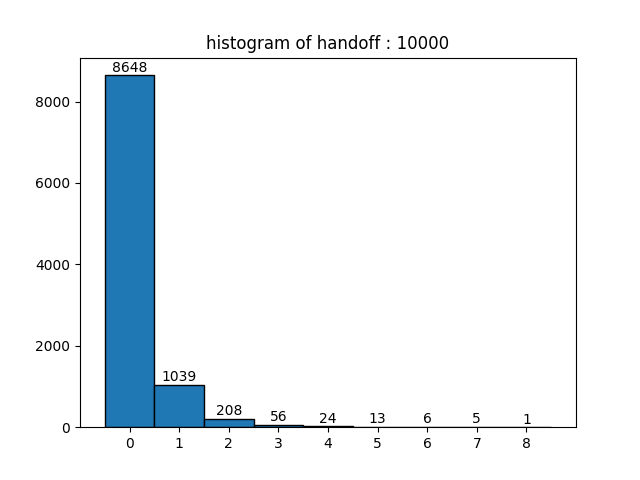
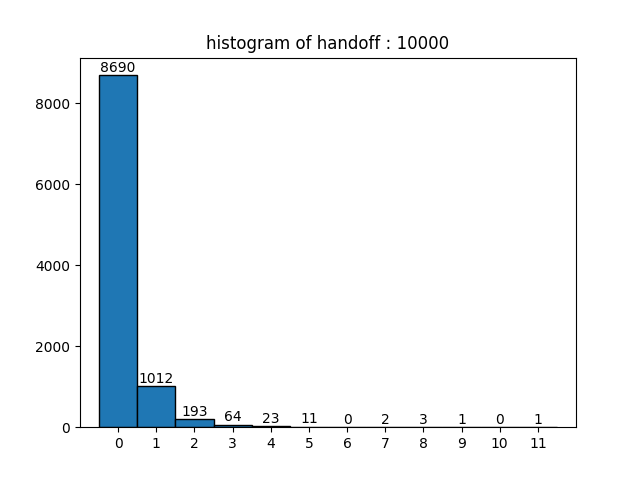
merged histogram plot to visualize.py

diff --git a/visualize.py b/visualize.py
@@ -2,38 +2,61 @@ import numpy as np
 import pandas as pd
 import matplotlib.pyplot as plt
 
-# load data
 
+# load data
+data = pd.read_csv("data.txt")
 data_r = pd.read_csv("data_r.txt")
 data_s = pd.read_csv("data_s.txt")
 data_d = pd.read_csv("data_d.txt")
 data_t = pd.read_csv("data_t.txt")
 
+# plot histogram
+
+fig = plt.figure(1)
+ax = fig.subplots()
+
+counts = np.bincount(data['handoff'])
+
+ax.bar(range(len(counts)), counts, width=1, align='center', edgecolor='black')
+ax.set(xticks=range(len(counts)), xlim=[-1, len(counts)])
+
+for i in range(len(counts)):
+    plt.text(x=i, 
+             y=counts[i] + max(counts)/100, 
+             s=str(counts[i]), 
+             horizontalalignment='center')
+
+plt.title('histogram of handoff : %d' %(len(data['handoff'])))
+
+
+# plot corelation
+
+plt.figure(2)
 
 plt.subplot(2, 2, 1)
 plt.plot(data_r['size_cell']*1000, data_r['handoff'])
 plt.xlabel('size_cell(m)')
-plt.ylabel('handoff')
+plt.ylabel('avg_handoff')
 plt.title('size_cell - avg_handoff')
 
 plt.subplot(2, 2, 2)
 plt.plot(data_s['avg_speed'], data_s['handoff'])
 plt.xlabel('avg_speed(km/h)')
-plt.ylabel('handoff')
+plt.ylabel('avg_handoff')
 plt.title('avg_speed - avg_handoff')
 
 plt.subplot(2, 2, 3)
 plt.plot(data_d['avg_distance']*1000, data_d['handoff'])
 plt.xlabel('avg_distance(m)')
-plt.ylabel('handoff')
+plt.ylabel('avg_handoff')
 plt.title('avg_distance - avg_handoff')
 
 plt.subplot(2, 2, 4)
 plt.plot(data_t['avg_duration']*60, data_t['handoff'])
 plt.xlabel('avg_duration(min)')
-plt.ylabel('handoff')
+plt.ylabel('avg_handoff')
 plt.title('avg_duration - avg_handoff')
 
-
 plt.tight_layout()
+
 plt.show()

diff --git a/main.c b/main.c
@@ -34,9 +34,14 @@ void run(FILE *fp, char c, double val) {
     {
         result = simulate();
         average += (double)result / num;
+        
+        if (c == 'h')
+            fprintf(fp, "%d\n", result);
     }
 
-    fprintf(fp, "%lf\n", average);
+    if (c != 'h')
+        fprintf(fp, "%lf\n", average);
+
     reset_param();
 }
 
@@ -46,27 +51,32 @@ int main(int argc, char *argv[])
     srand(time(NULL));
 
     FILE *fp;
+
+    fp = fopen("data.txt", "w");
+    fprintf(fp, "handoff\n");
+    run(fp, 'h', 0);
+    fclose(fp);
     
     fp = fopen("data_r.txt", "w");
-    fprintf(fp, "size_cell,handoff\n");;
+    fprintf(fp, "size_cell,handoff\n");
     for (double i = 100; i <= 1000; i += 10) 
         run(fp, 'r', i);
     fclose(fp);
 
     fp = fopen("data_s.txt", "w");
-    fprintf(fp, "avg_speed,handoff\n");;
+    fprintf(fp, "avg_speed,handoff\n");
     for (double i = 2; i <= 10; i += 0.1) 
         run(fp, 's', i);
     fclose(fp);
 
     fp = fopen("data_d.txt", "w");
-    fprintf(fp, "avg_distance,handoff\n");;
+    fprintf(fp, "avg_distance,handoff\n");
     for (double i = 10; i <= 1500; i += 10) 
         run(fp, 'd', i);
     fclose(fp);
 
     fp = fopen("data_t.txt", "w");
-    fprintf(fp, "avg_duration,handoff\n");;
+    fprintf(fp, "avg_duration,handoff\n");
     for (double i = 0.1; i <= 20; i += 0.1) 
         run(fp, 't', i);
     fclose(fp);

diff --git a/test.c b/test.c
@@ -41,6 +41,8 @@ int main(int argc, char *argv[])
     int result = 0;
     double average = 0;
 
+    fprintf(fp, "handoff\n");
+
     for (int i = 0; i < num; i++)
     {
         if (verbose)
